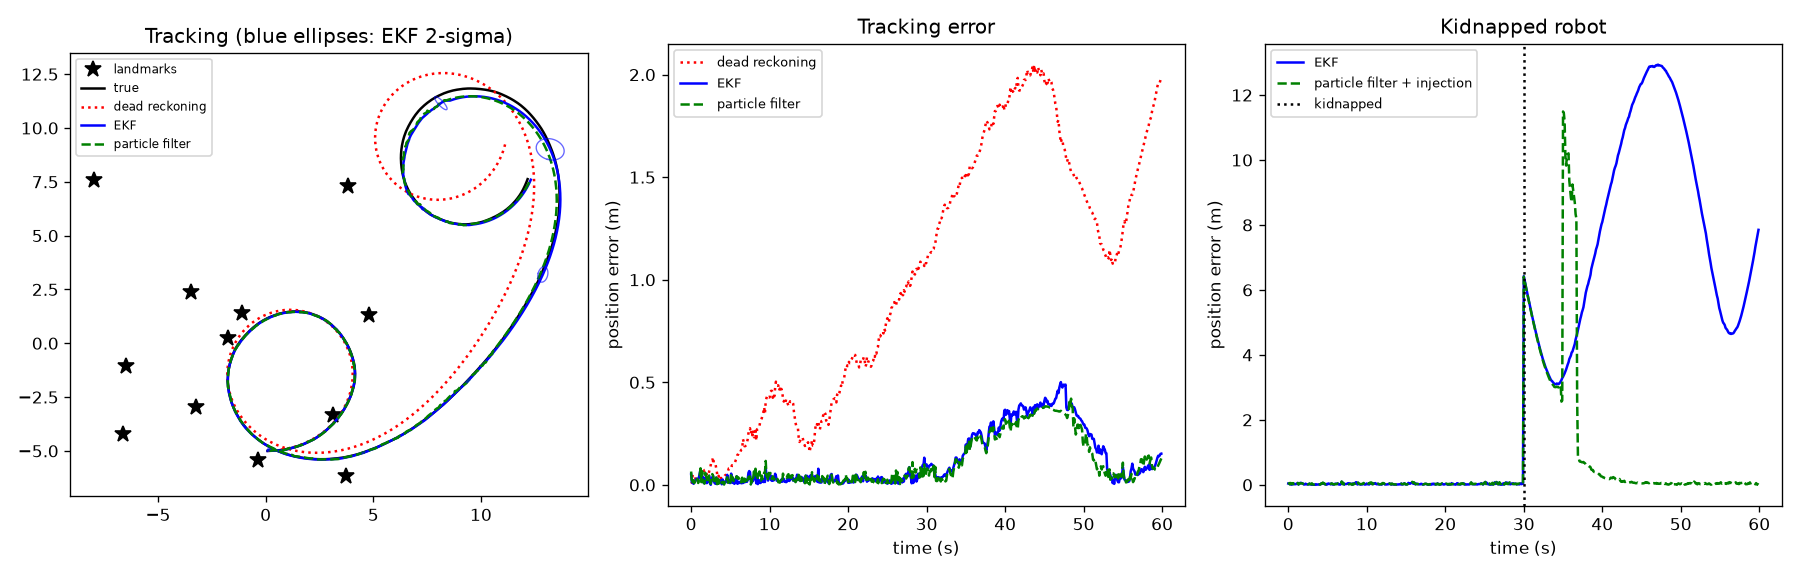
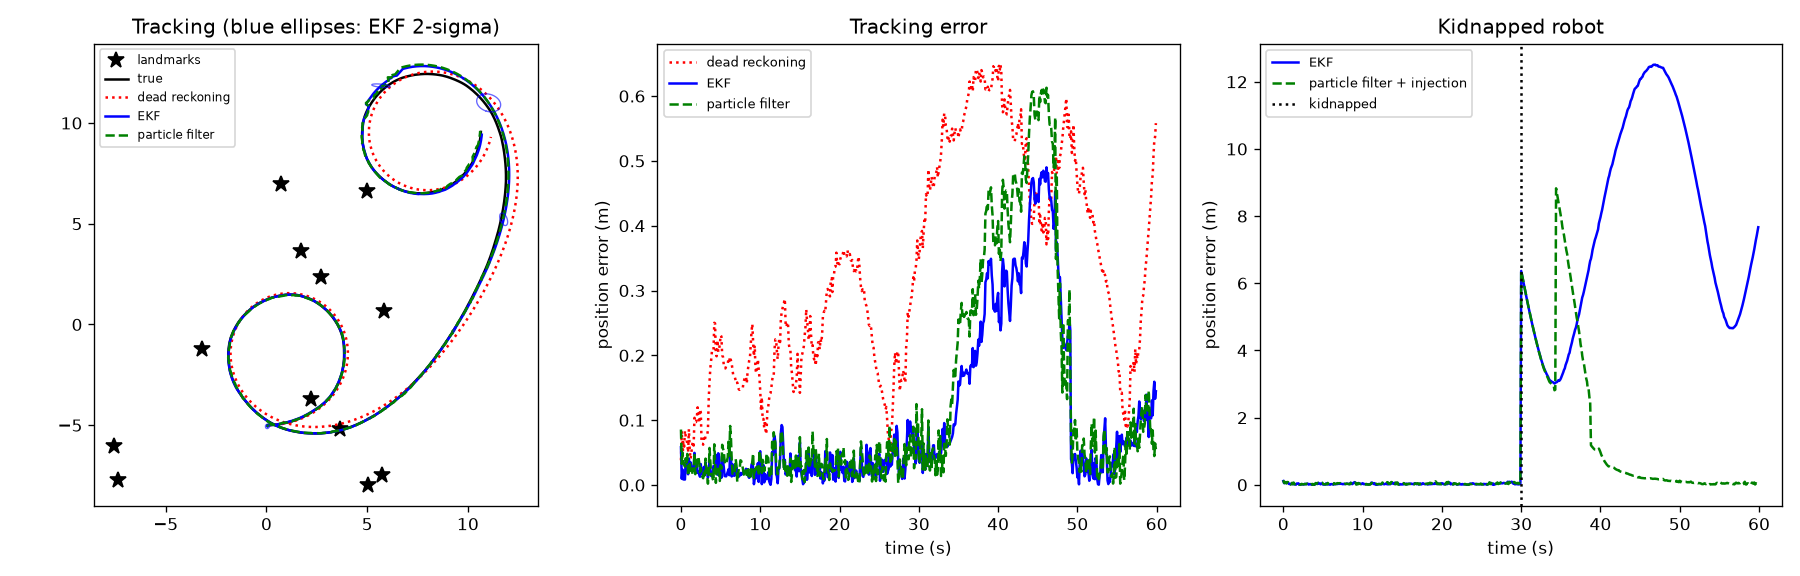
Add results

diff --git a/README.md b/README.md
@@ -24,7 +24,18 @@ python localization.py --seed 3 --particles 1000
 
 ## Results
 
-<!-- paste your output here -->
+```
+Experiment 1: tracking, 10 runs of 60 s, 12 landmarks, 500 particles
+  Dead reckoning   position RMSE  0.84 m   heading RMSE   4.7 deg
+  EKF              position RMSE  0.17 m   heading RMSE   1.7 deg
+  Particle filter  position RMSE  0.23 m   heading RMSE   2.0 deg
+  compute per step: EKF 0.042 ms, particle filter 0.08 ms
+
+Experiment 2: kidnapped robot (moved ~6.4 m and turned 90 deg at t = 30 s)
+  EKF (with outlier gating)               recovered in 0/10 runs
+  Particle filter + random injection      recovered in 10/10 runs, median 8.7 s
+  Particle filter without injection       recovered in 9/10 runs, median 22.1 s
+```
 
 ## What I learned
 
